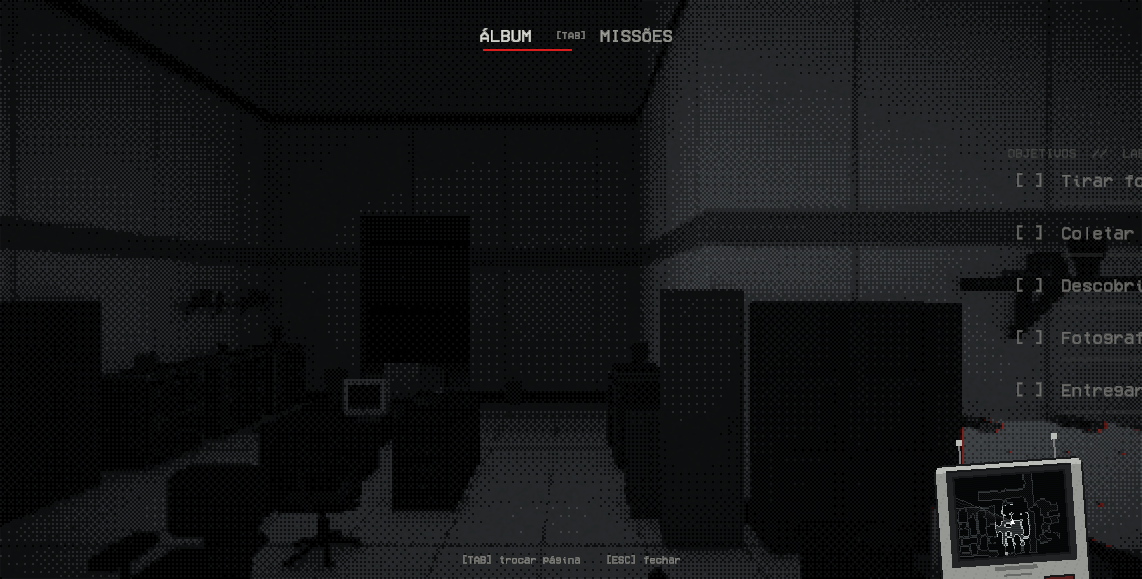
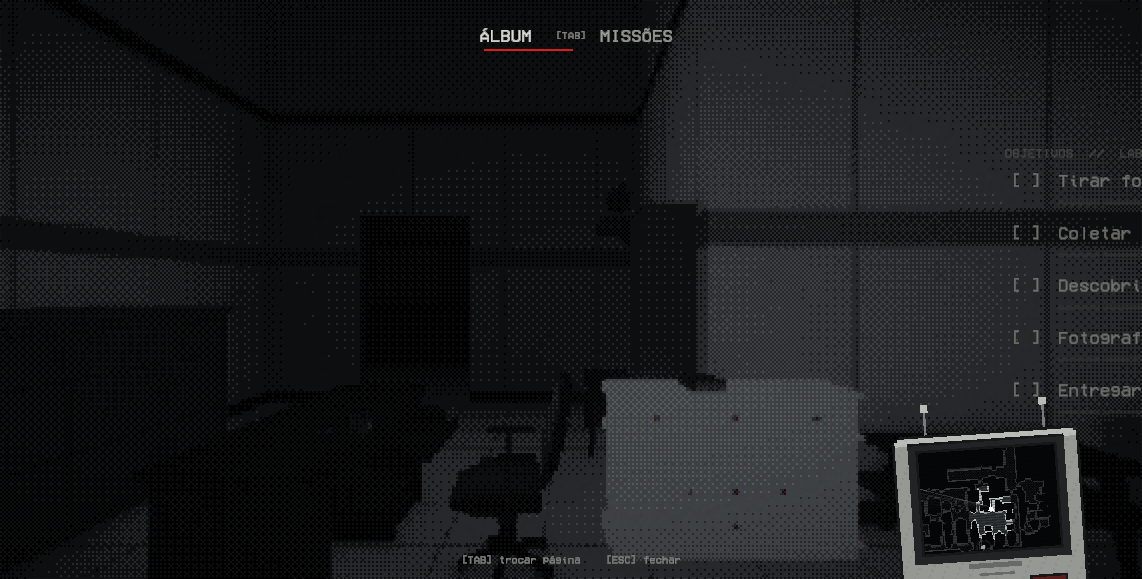
Radar sem mao, maior e no canto direito

diff --git a/PROJETO TORRADEIRA/Assets/Scripts/Detector/RadarDevice.cs b/PROJETO TORRADEIRA/Assets/Scripts/Detector/RadarDevice.cs
@@ -20,7 +20,7 @@ public class RadarDevice : MonoBehaviour
     [SerializeField] private Key raiseKey = Key.Q;
 
     // Tamanhos em pixels do desenho (exibido em escala 4x).
-    private const int DeviceW = 80, DeviceH = 96, Scale = 4;
+    private const int DeviceW = 80, DeviceH = 96, Scale = 5;
     private const int ScreenX = 13, ScreenY = 37, ScreenW = 54, ScreenH = 40;
     private const int TexW = 108, TexH = 80; // tela em meia-resolucao do aparelho
     private const float CellSize = 0.5f;
@@ -228,63 +228,6 @@ public class RadarDevice : MonoBehaviour
         ledGlow = NewImage("LedGlow", root);
         PlacePx(ledGlow.rectTransform, 37, 16, 7, 7);
         ledGlow.transform.SetSiblingIndex(led.transform.GetSiblingIndex());
-
-        BuildHand();
-    }
-
-    // Mao do jogador em pixel art preto e branco: segura o aparelho por baixo, dedao por cima
-    // da frente e dedos dobrados na lateral; a manga escura sai pela parte de baixo da tela.
-    private void BuildHand()
-    {
-        const int w = 40, h = 46;
-        var tex = new Texture2D(w, h, TextureFormat.RGBA32, false) { filterMode = FilterMode.Point, wrapMode = TextureWrapMode.Clamp, name = "RadarHand" };
-        var px = new Color32[w * h];
-        Color32 clear = new Color32(0, 0, 0, 0);
-        Color32 outline = new Color32(14, 14, 14, 255);
-        Color32 skin = new Color32(176, 176, 176, 255);
-        Color32 skinShade = new Color32(124, 124, 124, 255);
-        Color32 skinLight = new Color32(214, 214, 214, 255);
-        Color32 sleeve = new Color32(46, 46, 46, 255);
-        Color32 sleeveLight = new Color32(70, 70, 70, 255);
-        for (int i = 0; i < px.Length; i++)
-            px[i] = clear;
-
-        void Box(int x0, int y0, int x1, int y1, Color32 c)
-        {
-            for (int y = y0; y <= y1; y++)
-                for (int x = x0; x <= x1; x++)
-                    if (x >= 0 && y >= 0 && x < w && y < h)
-                        px[y * w + x] = c;
-        }
-
-        // Manga.
-        Box(8, 0, 32, 13, outline);
-        Box(9, 0, 31, 12, sleeve);
-        Box(9, 11, 31, 12, sleeveLight);
-        // Palma por baixo do aparelho.
-        Box(5, 12, 35, 27, outline);
-        Box(6, 13, 34, 26, skin);
-        Box(6, 13, 34, 15, skinShade);
-        // Dedos dobrados na lateral esquerda (quatro segmentos).
-        for (int i = 0; i < 4; i++)
-        {
-            int y = 17 + i * 5;
-            Box(1, y, 8, y + 4, outline);
-            Box(2, y + 1, 7, y + 3, i % 2 == 0 ? skin : skinLight);
-        }
-        // Dedao subindo pela frente, com unha.
-        Box(27, 24, 35, 42, outline);
-        Box(28, 25, 34, 41, skin);
-        Box(29, 37, 33, 40, skinLight);
-        Box(28, 25, 29, 41, skinShade);
-
-        tex.SetPixels32(px);
-        tex.Apply(false, true);
-
-        Image hand = NewImage("Hand", root);
-        hand.sprite = Sprite.Create(tex, new Rect(0, 0, w, h), new Vector2(0.5f, 0.5f), 100f);
-        // Em pixels do aparelho: canto de baixo, passando um pouco da borda.
-        PlacePx(hand.rectTransform, 50, -22, w, h);
     }
 
     private void BuildScreen()
@@ -338,7 +281,7 @@ public class RadarDevice : MonoBehaviour
 
         // Abaixado: so a metade de cima aparece no canto. Levantado: sobe e chega mais perto do centro.
         float lowered = -DeviceH * Scale * 0.2f;
-        Vector2 pos = new Vector2(Mathf.Lerp(-70f, -420f, e), Mathf.Lerp(lowered, 60f, e));
+        Vector2 pos = new Vector2(Mathf.Lerp(-70f, -150f, e), Mathf.Lerp(lowered, 60f, e));
 
         // Balanca com os passos e atrasa um pouco quando a camera gira (aparelho na mao).
         if (movement != null && Time.timeScale > 0f)
@@ -362,7 +305,7 @@ public class RadarDevice : MonoBehaviour
 
         root.anchoredPosition = pos;
         root.localRotation = Quaternion.Euler(0f, 0f, -lag.x * 0.08f + Mathf.Lerp(4f, 0f, e));
-        root.localScale = Vector3.one * Mathf.Lerp(0.85f, 1.25f, e);
+        root.localScale = Vector3.one * Mathf.Lerp(0.85f, 1.05f, e);
     }
 
     private void UpdateLed()
